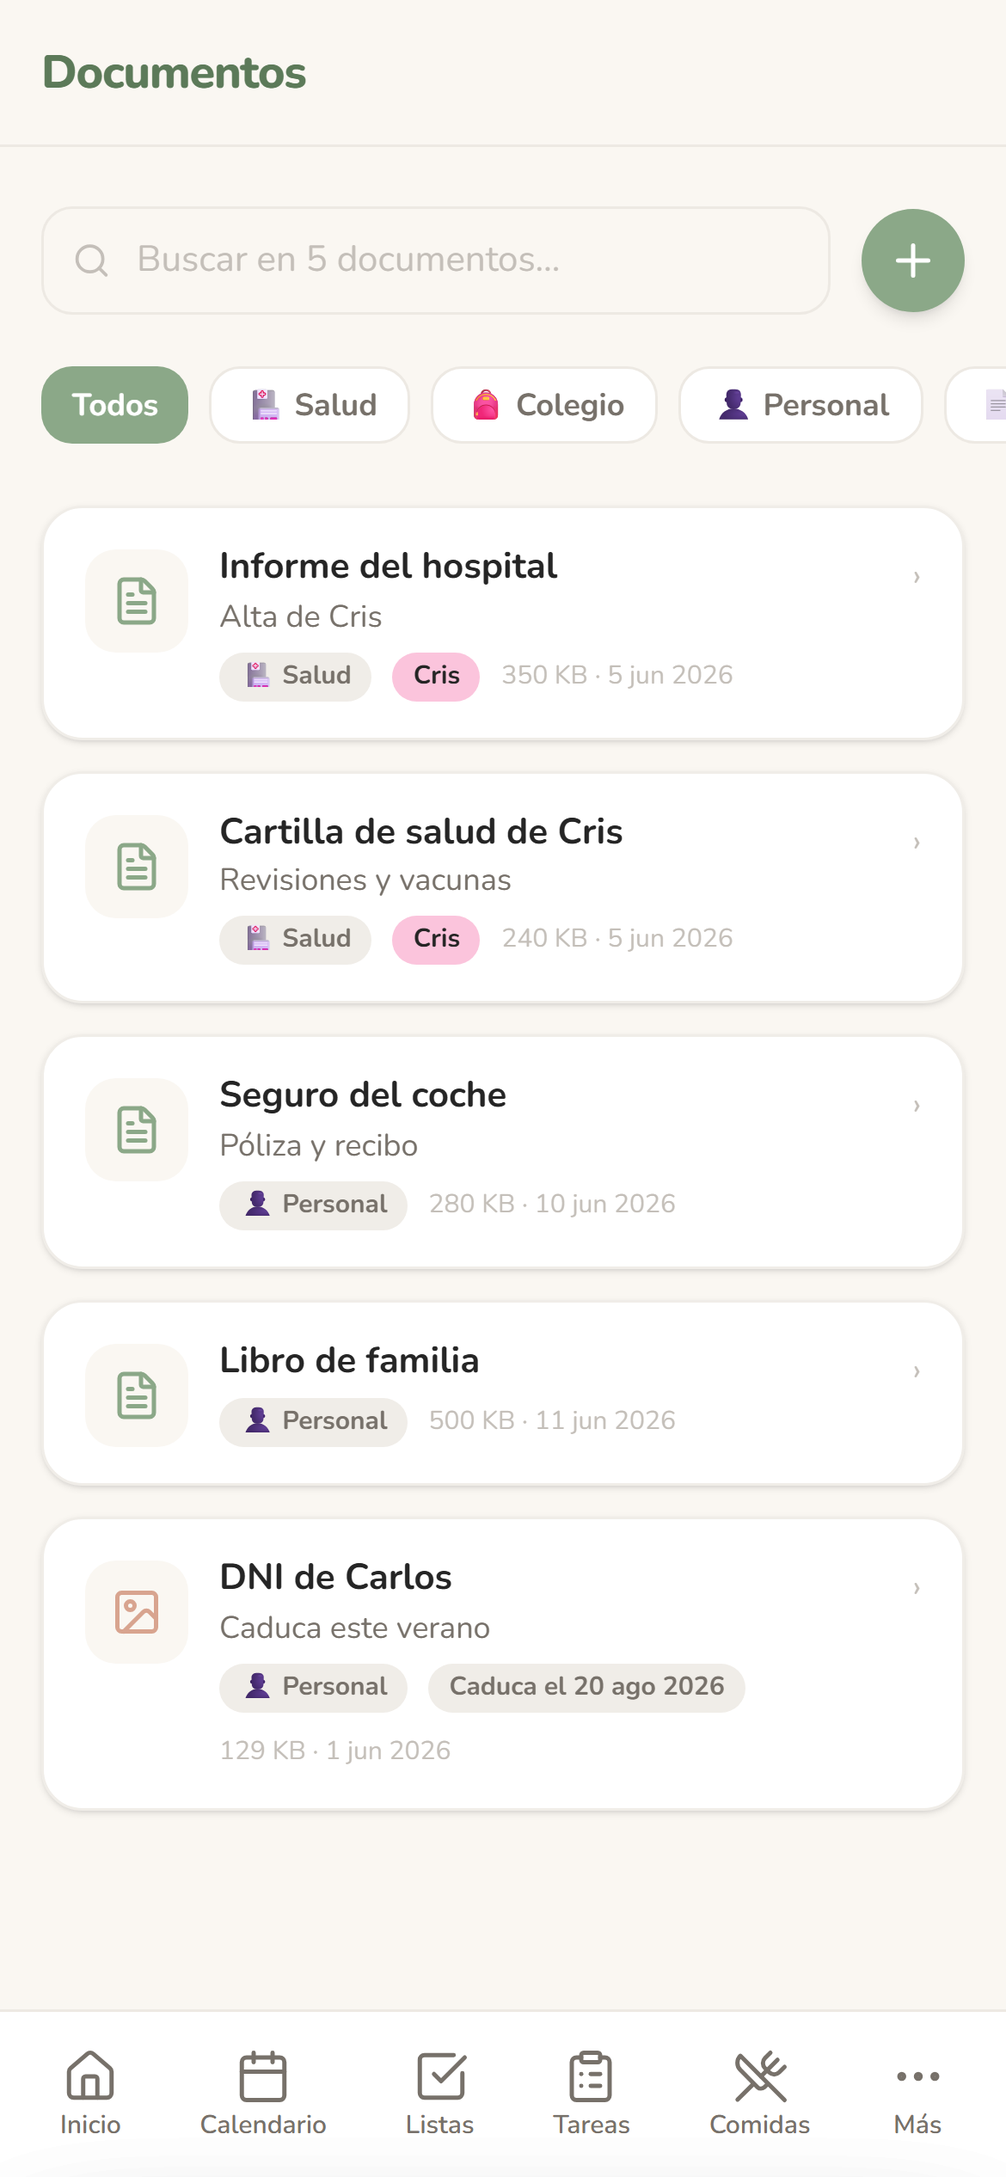
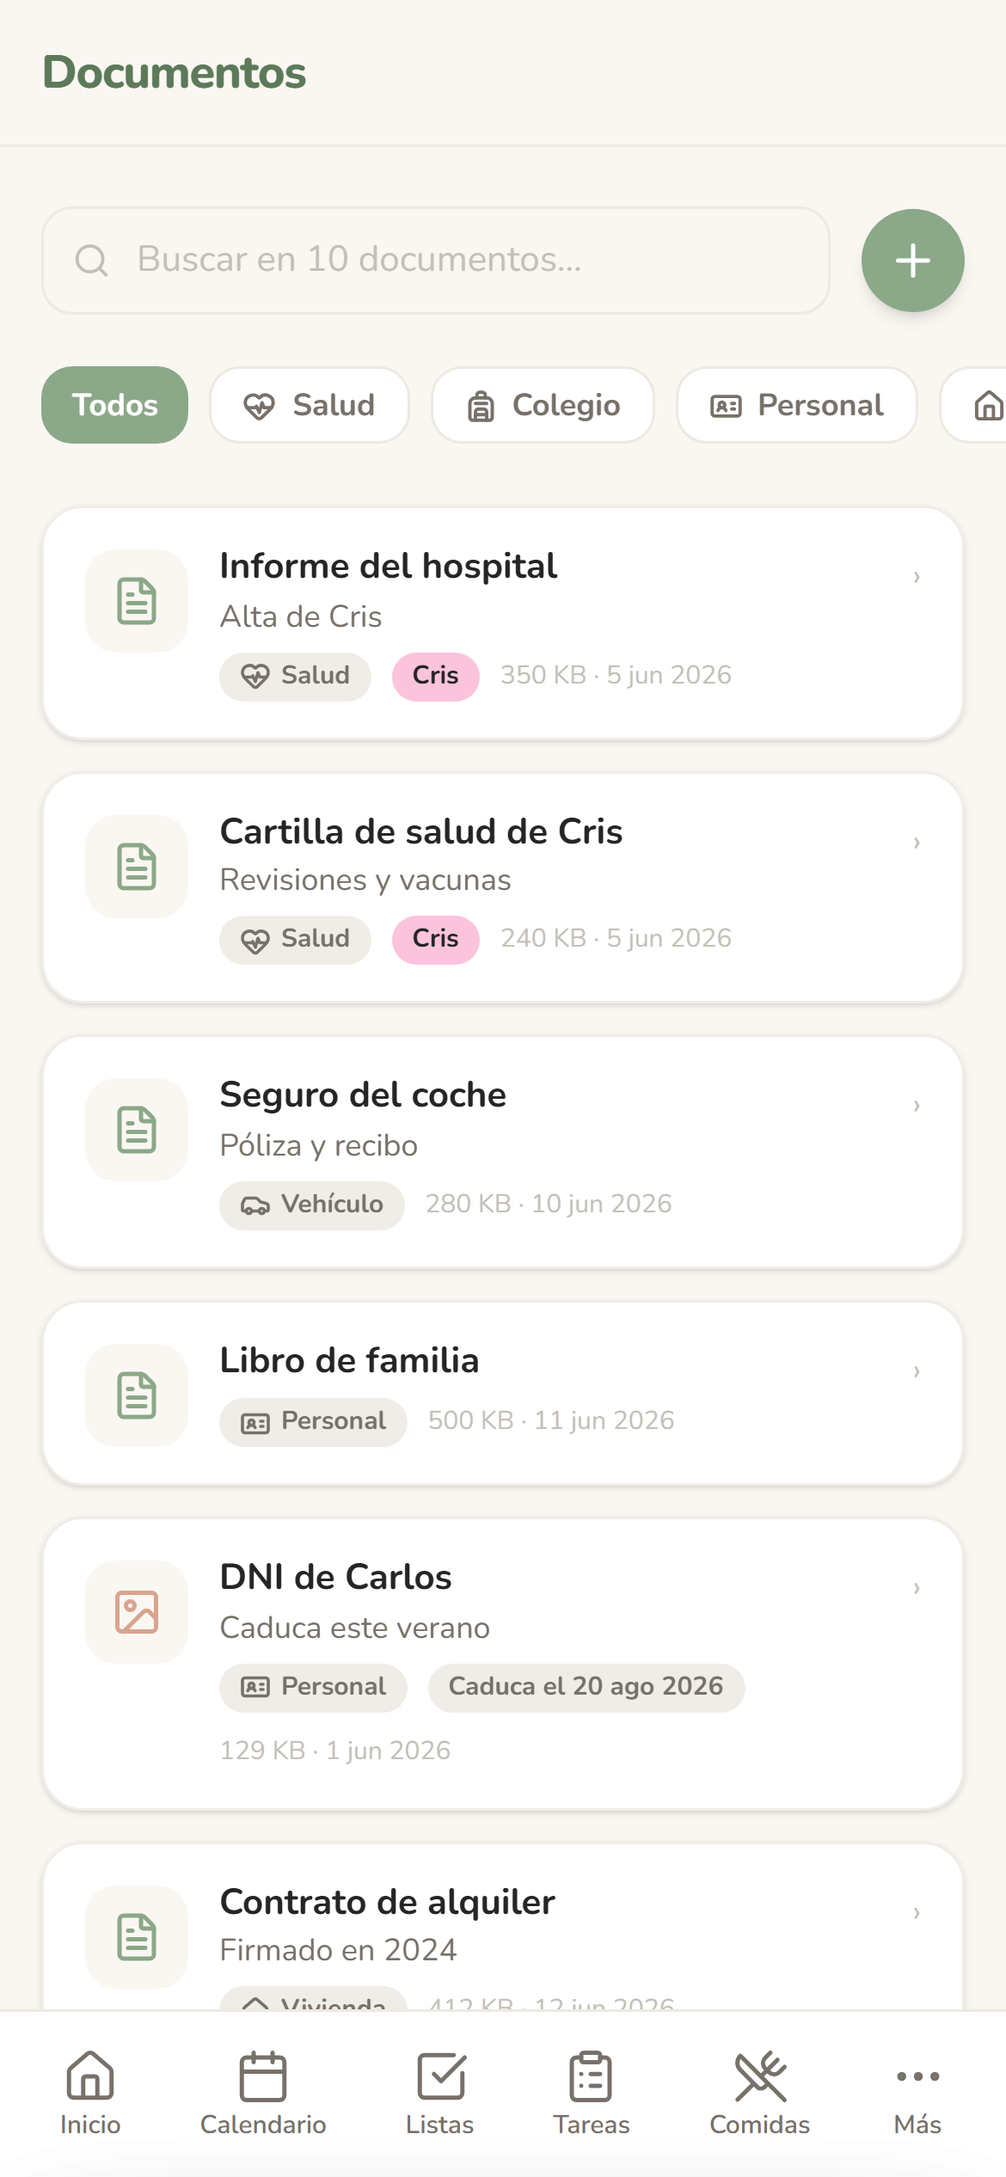
feat: los papeles de casa tienen once carpetas, y «Personal» vuelve a ser identidad
Las categorías de Documentos eran cuatro —Salud, Colegio, Personal y Otros— y el
problema no era que fueran pocas, sino que dos no querían decir nada. El seguro
del coche estaba en «Personal». La factura de la lavadora habría acabado en
«Otros». Con eso el filtro no filtra: si medio cajón cae en la misma carpeta por
descarte, abrirla es como no abrir ninguna.

Ahora son once, y la regla que las sostiene es que cada papel que hay de verdad
en una casa tenga una carpeta que no sea «Otros»: Salud, Colegio, Personal,
Vivienda, Vehículo, Seguros, Finanzas, Facturas, Mascotas, Viajes y Otros. La
lista viva es `DOC_CATEGORIES` y el `check` de `documents.category` la copia: si
una crece, la otra crece con ella.

`personal` pasa a ser identidad —DNI, pasaporte, libro de familia, títulos—, que
es lo que la palabra significaba y lo que no podía significar mientras fuera el
único sitio donde meter una póliza. La clave no se renombra a `identidad` aunque
sea más exacto: hay documentos en producción con ese valor y migrar filas por
precisión de vocabulario no lo vale.

El icono de cada carpeta se va de `constants.ts` a `CategoryIcon.tsx` y deja de
ser un emoji. El chip de la tarjeta tiene el texto a 10 px, y a ese tamaño un
emoji de color es una mancha que además dibuja distinta cada sistema; los de
lucide son monocromos y heredan el color del chip. No pueden vivir en
`constants.ts` porque ese archivo lo importa también el servidor y no puede
arrastrar `lucide-react`.
[…]

diff --git a/src/lib/store/db.ts b/src/lib/store/db.ts
@@ -173,8 +173,17 @@ export const db: DB = {
   documents: [
     { id: 'd1', family_id: 'f1', child_id: '1', member_id: null,  name: 'Informe del hospital',         description: 'Alta de Cris'                  , category: 'salud',    storage_path: 'mock/informe-hospital.pdf', storage_provider: 'google_drive', storage_owner: 'u1', mime_type: 'application/pdf', size_bytes: 358400, expires_on: null, created_by: 'u1', created_at: '2026-06-05T13:00:00', updated_at: '2026-06-05T13:00:00' },
     { id: 'd2', family_id: 'f1', child_id: '1', member_id: null,  name: 'Cartilla de salud de Cris',     description: 'Revisiones y vacunas',            category: 'salud',    storage_path: 'mock/cartilla-salud-cris.pdf', storage_provider: 'google_drive', storage_owner: 'u1',    mime_type: 'application/pdf', size_bytes: 245760, expires_on: null, created_by: 'u2', created_at: '2026-06-05T13:30:00', updated_at: '2026-06-05T13:30:00' },
-    { id: 'd3', family_id: 'f1', child_id: null, member_id: null, name: 'Seguro del coche',              description: 'Póliza y recibo'    ,             category: 'personal', storage_path: 'mock/seguro-coche.pdf', storage_provider: 'google_drive', storage_owner: 'u1',       mime_type: 'application/pdf', size_bytes: 286720, expires_on: null, created_by: 'u1', created_at: '2026-06-10T18:00:00', updated_at: '2026-06-10T18:00:00' },
+    { id: 'd3', family_id: 'f1', child_id: null, member_id: null, name: 'Seguro del coche',              description: 'Póliza y recibo'    ,             category: 'vehiculo', storage_path: 'mock/seguro-coche.pdf', storage_provider: 'google_drive', storage_owner: 'u1',       mime_type: 'application/pdf', size_bytes: 286720, expires_on: null, created_by: 'u1', created_at: '2026-06-10T18:00:00', updated_at: '2026-06-10T18:00:00' },
     { id: 'd4', family_id: 'f1', child_id: null, member_id: null, name: 'Libro de familia',              description: null,                              category: 'personal', storage_path: 'mock/libro-familia.pdf', storage_provider: 'google_drive', storage_owner: 'u1',         mime_type: 'application/pdf', size_bytes: 512000, expires_on: null, created_by: 'u1', created_at: '2026-06-11T10:00:00', updated_at: '2026-06-11T10:00:00' },
     { id: 'd5', family_id: 'f1', child_id: null, member_id: null, name: 'DNI de Carlos',                 description: 'Caduca este verano',               category: 'personal', storage_path: 'mock/dni-carlos.jpg', storage_provider: 'google_drive', storage_owner: 'u1',              mime_type: 'image/jpeg',      size_bytes: 132096, expires_on: '2026-08-20', created_by: 'u1', created_at: '2026-06-01T00:00:00', updated_at: '2026-06-01T00:00:00' },
+    // Uno por carpeta nueva, para que la demo no las enseñe todas vacías: son
+    // justo los papeles que antes caían en "Personal" u "Otros" por no tener
+    // sitio. "Mascotas" se queda sin ejemplo a propósito, que esta familia no
+    // tiene animales y un perro inventado no aclara nada.
+    { id: 'd6', family_id: 'f1', child_id: null, member_id: null, name: 'Contrato de alquiler',          description: 'Firmado en 2024',                  category: 'vivienda', storage_path: 'mock/contrato-alquiler.pdf', storage_provider: 'google_drive', storage_owner: 'u1',  mime_type: 'application/pdf', size_bytes: 421888, expires_on: null, created_by: 'u1', created_at: '2026-06-12T09:00:00', updated_at: '2026-06-12T09:00:00' },
+    { id: 'd7', family_id: 'f1', child_id: null, member_id: null, name: 'Seguro del hogar',              description: 'Póliza anual',                     category: 'seguros',  storage_path: 'mock/seguro-hogar.pdf', storage_provider: 'google_drive', storage_owner: 'u1',       mime_type: 'application/pdf', size_bytes: 199680, expires_on: '2027-01-31', created_by: 'u2', created_at: '2026-06-12T09:30:00', updated_at: '2026-06-12T09:30:00' },
+    { id: 'd8', family_id: 'f1', child_id: null, member_id: 'm1', name: 'Nómina de mayo',                description: null,                               category: 'finanzas', storage_path: 'mock/nomina-mayo.pdf', storage_provider: 'google_drive', storage_owner: 'u1',        mime_type: 'application/pdf', size_bytes: 92160,  expires_on: null, created_by: 'u1', created_at: '2026-06-02T08:00:00', updated_at: '2026-06-02T08:00:00' },
+    { id: 'd9', family_id: 'f1', child_id: null, member_id: null, name: 'Factura de la lavadora',        description: 'Garantía de tres años',            category: 'facturas', storage_path: 'mock/factura-lavadora.jpg', storage_provider: 'google_drive', storage_owner: 'u1',   mime_type: 'image/jpeg',      size_bytes: 148480, expires_on: '2028-03-04', created_by: 'u2', created_at: '2026-06-13T19:00:00', updated_at: '2026-06-13T19:00:00' },
+    { id: 'd10', family_id: 'f1', child_id: null, member_id: 'm1', name: 'Tarjeta sanitaria europea',    description: null,                               category: 'viajes',   storage_path: 'mock/tse-carlos.jpg', storage_provider: 'google_drive', storage_owner: 'u1',         mime_type: 'image/jpeg',      size_bytes: 176128, expires_on: '2029-05-18', created_by: 'u1', created_at: '2026-06-14T11:00:00', updated_at: '2026-06-14T11:00:00' },
   ],
 }

diff --git a/src/components/docs/DocCard.tsx b/src/components/docs/DocCard.tsx
@@ -2,12 +2,13 @@
 
 import { format, parseISO } from 'date-fns'
 import { es } from 'date-fns/locale'
+import { CategoryIcon } from './CategoryIcon'
 import { FileTypeIcon } from './FileTypeIcon'
 import { textColorOn } from '@/lib/assignees'
 import { DOC_CATEGORIES, FAMILY_COLOR } from '@/lib/constants'
 import { selectExpiryState } from '@/lib/selectors'
 import { formatFileSize } from '@/lib/text'
-import type { Document } from '@/types'
+import type { DocCategory, Document } from '@/types'
 
 const CADUCIDAD_ESTILO = {
   caducado: 'bg-danger-soft text-danger-strong',
@@ -15,9 +16,9 @@ const CADUCIDAD_ESTILO = {
   vigente:  'bg-surface text-muted',
 } as const
 
-const CATEGORY_META = Object.fromEntries(
-  DOC_CATEGORIES.map(c => [c.key, { label: c.label, emoji: c.emoji }])
-)
+const ETIQUETAS = Object.fromEntries(
+  DOC_CATEGORIES.map(c => [c.key, c.label])
+) as Record<DocCategory, string>
 
 interface DocCardProps {
   doc: Document
@@ -29,7 +30,7 @@ interface DocCardProps {
 
 /** Tarjeta de documento en el listado, con categoría, dueño y metadatos. */
 export function DocCard({ doc, assigneeName, assigneeColor, onEdit }: DocCardProps) {
-  const cat = doc.category ? CATEGORY_META[doc.category] : CATEGORY_META['otros']
+  const categoria: DocCategory = doc.category ?? 'otros'
   const caducidad = selectExpiryState(doc.expires_on)
 
   return (
@@ -49,11 +50,9 @@ export function DocCard({ doc, assigneeName, assigneeColor, onEdit }: DocCardPro
           <p className="text-xs text-muted mt-0.5 truncate">{doc.description}</p>
         )}
         <div className="flex items-center gap-2 mt-1.5 flex-wrap">
-          {cat && (
-            <span className="text-[10px] font-bold bg-surface text-muted px-2 py-0.5 rounded-full">
-              {cat.emoji} {cat.label}
-            </span>
-          )}
+          <span className="inline-flex items-center gap-1 text-[10px] font-bold bg-surface text-muted px-2 py-0.5 rounded-full">
+            <CategoryIcon category={categoria} /> {ETIQUETAS[categoria] ?? 'Otros'}
+          </span>
           {assigneeName && (
             <span
               className="text-[10px] font-bold px-2 py-0.5 rounded-full"

diff --git a/src/components/docs/DocsView.tsx b/src/components/docs/DocsView.tsx
@@ -1,16 +1,18 @@
 'use client'
 
 import { X } from 'lucide-react'
+import { CategoryIcon } from './CategoryIcon'
 import { DocCard } from './DocCard'
 import { DocSheet } from './DocSheet'
 import { useDocsState } from './useDocsState'
 import { DOC_CATEGORIES } from '@/lib/constants'
 import { resolveAssignee } from '@/lib/assignees'
 import { ViewHeader } from '@/components/ui/ViewHeader'
+import type { DocCategory } from '@/types'
 
-const ALL_FILTERS = [
-  { key: null as string | null, label: 'Todos' },
-  ...DOC_CATEGORIES.map(c => ({ key: c.key as string | null, label: `${c.emoji} ${c.label}` })),
+const ALL_FILTERS: { key: DocCategory | null; label: string }[] = [
+  { key: null, label: 'Todos' },
+  ...DOC_CATEGORIES,
 ]
 
 export function DocsView() {
@@ -57,15 +59,18 @@ export function DocsView() {
 
       {/* Filtros */}
       {/* En móvil los filtros se arrastran y sangran hasta el borde (`-mx-4
-          px-4`); en escritorio caben los cinco de una vez, así que se quita el
-          sangrado y el arrastre. */}
+          px-4`); en escritorio se reparten en varias líneas, así que se quita el
+          sangrado y el arrastre. Son once categorías y «Todos»: no caben en una
+          fila en ningún sitio, y es el precio de que cada papel de la casa tenga
+          su carpeta. */}
       <div className="flex gap-2 overflow-x-auto pb-1 -mx-4 px-4 lg:mx-0 lg:flex-wrap lg:overflow-x-visible lg:px-0">
         {ALL_FILTERS.map(f => (
           <button
             key={String(f.key)}
             onClick={() => s.setActiveFilter(f.key)}
-            className={`flex-shrink-0 px-3 py-1.5 rounded-xl text-xs font-bold transition-colors ${s.activeFilter === f.key ? 'bg-primary text-white' : 'bg-white border border-line text-muted hover:bg-surface'}`}
+            className={`flex flex-shrink-0 items-center gap-1.5 px-3 py-1.5 rounded-xl text-xs font-bold transition-colors ${s.activeFilter === f.key ? 'bg-primary text-white' : 'bg-white border border-line text-muted hover:bg-surface'}`}
           >
+            {f.key && <CategoryIcon category={f.key} size={13} />}
             {f.label}
           </button>
         ))}

diff --git a/src/lib/constants.ts b/src/lib/constants.ts
@@ -2,11 +2,30 @@ import type { DocCategory, DocMimeType, MealSlot, QuoteStatus, TaskPriority, Tas
 
 // ─── Documentos ───────────────────────────────────────────────────────────────
 
-export const DOC_CATEGORIES: { key: DocCategory; label: string; emoji: string }[] = [
-  { key: 'salud',    label: 'Salud',    emoji: '🏥' },
-  { key: 'colegio',  label: 'Colegio',  emoji: '🎒' },
-  { key: 'personal', label: 'Personal', emoji: '👤' },
-  { key: 'otros',    label: 'Otros',    emoji: '📄' },
+/**
+ * Las carpetas del cajón de los papeles, en el orden en que se enseñan.
+ *
+ * `personal` es **identidad**: DNI, pasaporte, libro de familia, títulos. Lo que
+ * antes caía ahí por descarte —el seguro del coche, la factura de la lavadora—
+ * tiene ahora su sitio, y por eso la lista es larga: el filtro solo sirve si
+ * cada papel de una casa cabe en una carpeta que no sea «Otros».
+ *
+ * Aquí no hay icono a propósito: este archivo lo importa también el servidor y
+ * no puede arrastrar `lucide-react`. El icono de cada clave lo pone
+ * `src/components/docs/CategoryIcon.tsx`.
+ */
+export const DOC_CATEGORIES: { key: DocCategory; label: string }[] = [
+  { key: 'salud',    label: 'Salud' },
+  { key: 'colegio',  label: 'Colegio' },
+  { key: 'personal', label: 'Personal' },
+  { key: 'vivienda', label: 'Vivienda' },
+  { key: 'vehiculo', label: 'Vehículo' },
+  { key: 'seguros',  label: 'Seguros' },
+  { key: 'finanzas', label: 'Finanzas' },
+  { key: 'facturas', label: 'Facturas' },
+  { key: 'mascotas', label: 'Mascotas' },
+  { key: 'viajes',   label: 'Viajes' },
+  { key: 'otros',    label: 'Otros' },
 ]
 
 export const VALID_MIME_TYPES: DocMimeType[] = ['application/pdf', 'image/jpeg', 'image/png']

diff --git a/src/components/docs/CategoryIcon.tsx b/src/components/docs/CategoryIcon.tsx
@@ -1,0 +1,43 @@
+import {
+  Backpack,
+  Car,
+  CreditCard,
+  File,
+  HeartPulse,
+  House,
+  IdCard,
+  PawPrint,
+  Plane,
+  Receipt,
+  ShieldCheck,
+} from 'lucide-react'
+import type { DocCategory } from '@/types'
+
+/**
+ * El icono de cada categoría de documento.
+ *
+ * Son iconos y no emoji porque el chip donde viven mide 10 px de texto: a ese
+ * tamaño un emoji de color se lee como una mancha, y encima cada sistema lo
+ * dibuja a su manera. El resto de la app ya es lucide.
+ *
+ * Vive aquí y no en `constants.ts` porque ese archivo lo importa el servidor.
+ */
+const ICONOS: Record<DocCategory, typeof File> = {
+  salud:    HeartPulse,
+  colegio:  Backpack,
+  personal: IdCard,
+  vivienda: House,
+  vehiculo: Car,
+  seguros:  ShieldCheck,
+  finanzas: CreditCard,
+  facturas: Receipt,
+  mascotas: PawPrint,
+  viajes:   Plane,
+  otros:    File,
+}
+
+/** Icono de la categoría del documento. Decorativo: el nombre va al lado. */
+export function CategoryIcon({ category, size = 12 }: { category: DocCategory; size?: number }) {
+  const Icono = ICONOS[category] ?? File
+  return <Icono size={size} strokeWidth={2.4} aria-hidden />
+}

diff --git a/src/components/docs/DocSheet.tsx b/src/components/docs/DocSheet.tsx
@@ -7,6 +7,7 @@ import { Field } from '@/components/ui/Field'
 import { SelectChip } from '@/components/ui/SelectChip'
 import { SheetFooter } from '@/components/ui/SheetFooter'
 import type { Child, Document, DocumentDraft, DocMimeType, FamilyMember, StorageConnection } from '@/types'
+import { CategoryIcon } from './CategoryIcon'
 import { ConnectStorage } from './ConnectStorage'
 import { FileTypeIcon } from './FileTypeIcon'
 import { DOC_CATEGORIES } from '@/lib/constants'
@@ -228,7 +229,7 @@ export function DocSheet({ open, mode, initial, kids, members, onClose, onSave, 
                 selected={draft.category === cat.key}
                 onClick={() => patch({ category: cat.key })}
               >
-                <span>{cat.emoji}</span> {cat.label}
+                <CategoryIcon category={cat.key} size={13} /> {cat.label}
               </SelectChip>
             ))}
           </div>

diff --git a/e2e/escritorio.spec.ts b/e2e/escritorio.spec.ts
@@ -358,7 +358,9 @@ test.describe('escritorio a 1440 px', () => {
     expect(await columnasDeTarjetas(page), 'los documentos no están en rejilla').toBe(3)
   })
 
-  test('los filtros de Documentos no se arrastran, caben los cinco', async ({ page }) => {
+  // Son doce filtros y no caben en una fila ni en escritorio: lo que se prueba
+  // es que se reparten en varias líneas (`lg:flex-wrap`) en vez de arrastrarse.
+  test('los filtros de Documentos no se arrastran, se reparten en varias líneas', async ({ page }) => {
     await page.goto('/docs')
     await page.waitForTimeout(800)
 

diff --git a/src/types/index.ts b/src/types/index.ts
@@ -1,4 +1,15 @@
-export type DocCategory = 'salud' | 'colegio' | 'personal' | 'otros'
+export type DocCategory =
+  | 'salud'
+  | 'colegio'
+  | 'personal'
+  | 'vivienda'
+  | 'vehiculo'
+  | 'seguros'
+  | 'finanzas'
+  | 'facturas'
+  | 'mascotas'
+  | 'viajes'
+  | 'otros'
 export type DocMimeType = 'application/pdf' | 'image/jpeg' | 'image/png'
 
 export interface Family {

diff --git a/docs/architecture.md b/docs/architecture.md
@@ -1419,6 +1419,38 @@ pantallas de todos los días.
 tarjeta ni credenciales. Todo lo de esta sección lo escribe la familia a mano, y así lo
 dice `/privacidad`.
 
+### Documentos: once carpetas, y «Personal» significa identidad (02-09-2026)
+
+Las categorías eran cuatro —Salud, Colegio, Personal y Otros— y el problema no era que
+fueran pocas, sino que dos de ellas no querían decir nada. El seguro del coche estaba en
+«Personal». La factura de la lavadora habría acabado en «Otros». Con eso el filtro no
+filtra: si medio cajón cae en la misma carpeta por descarte, abrirla es como no abrir
+ninguna.
+
+Así que hay once, y la regla que las sostiene es que **cada papel que hay de verdad en una
+casa tenga una carpeta que no sea «Otros»**: Salud, Colegio, Personal, Vivienda, Vehículo,
+Seguros, Finanzas, Facturas, Mascotas, Viajes y Otros. La lista viva está en
+`DOC_CATEGORIES` (`src/lib/constants.ts`) y el `check` de `documents.category` en
+`supabase/schema.sql` la copia: si una crece, la otra crece con ella.
+
+**`personal` es identidad**, no el cajón de lo que sobra: DNI, pasaporte, libro de familia,
+títulos. Es lo que la palabra ya significaba en la cabeza de quien la eligió, y lo que no
+podía significar mientras fuera el único sitio donde meter una póliza. La clave no se
+renombró aunque «Identidad» sea más exacto: hay documentos reales en producción con ese
+valor y cambiarlo obligaría a migrar filas para ganar precisión de vocabulario.
+
+**El icono es de lucide y no un emoji** (`src/components/docs/CategoryIcon.tsx`). El chip de
+la tarjeta tiene el texto a 10 px; a ese tamaño un emoji de color es una mancha, y encima
+Android, iOS y Windows dibujan cada uno el suyo. Los iconos son monocromos, heredan el color
+del chip y son los mismos que el resto de la app. `constants.ts` se queda sin el campo
+`emoji` y **sin icono**: ese archivo lo importa también el servidor y no puede arrastrar
+`lucide-react`.
+
+**Doce filtros no caben en una fila, y se acepta.** En móvil la fila se arrastra —ya lo
+hacía— y en escritorio se reparte en varias líneas con `lg:flex-wrap`. La alternativa era un
+desplegable, que esconde las carpetas y cuesta dos toques en vez de uno. `e2e/escritorio.spec.ts`
+comprueba lo que importa: que en escritorio no se arrastre.
+
 ## Tono de la interfaz
 
 La app habla como se habla en una casa, y desafina en cuanto se cuela el registro

diff --git a/docs/project-status.md b/docs/project-status.md
@@ -67,7 +67,13 @@ La app está en producción, en uso diario por la familia y probada en un móvil
 - Documentos: subir, abrir, editar, borrar y aviso de caducidad en la tarjeta. Los
   archivos están en el Google Drive de quien los sube y los sirve Farpi con el token
   del dueño; el resto de la familia no conecta nada ni se entera de que hay un Drive
-  detrás.
+  detrás. **Once categorías** (02-09-2026), en `DOC_CATEGORIES`: Salud, Colegio,
+  Personal, Vivienda, Vehículo, Seguros, Finanzas, Facturas, Mascotas, Viajes y Otros.
+  `personal` es identidad —DNI, pasaporte, libro de familia—, no el cajón de lo que no
+  encaja; para eso está «Otros». Cada una lleva un icono de lucide
+  (`docs/CategoryIcon.tsx`), no un emoji: el chip mide 10 px y ahí un emoji de color es
+  una mancha distinta en cada sistema. Con doce filtros la fila ya no cabe en una
+  línea: en móvil se arrastra y en escritorio se reparte.
 - **Notas** (31-08-2026): lo que hay que tener apuntado en casa y no es una fecha, una
   tarea ni un papel —el teléfono del pediatra, la clave del wifi, dónde está el contador—.
   Título, texto libre, un emoji y la posibilidad de fijar una arriba. Sin categorías, sin

diff --git a/docs/testing-checklist.md b/docs/testing-checklist.md
@@ -209,7 +209,9 @@ Ejecutar en modo demo, sin Supabase configurado, en móvil o DevTools con ancho 
 - [ ] Se puede editar documento.
 - [ ] Se puede borrar documento.
 - [ ] Se puede asociar documento a familia o hijo.
-- [ ] Filtros por categoría funcionan.
+- [ ] Filtros por categoría funcionan, las once.
+- [ ] La fila de filtros se arrastra en móvil y se reparte en varias líneas en escritorio.
+- [ ] Cada categoría enseña su icono en el filtro, en el chip de la tarjeta y en el sheet.
 - [ ] El buscador filtra por nombre y descripción, y manda sobre la categoría abierta.
 - [ ] Un documento con caducidad la enseña en su tarjeta: ámbar dentro de 30 días, rojo si ya pasó.
 - [ ] Solo se aceptan PDF, JPG y PNG.
